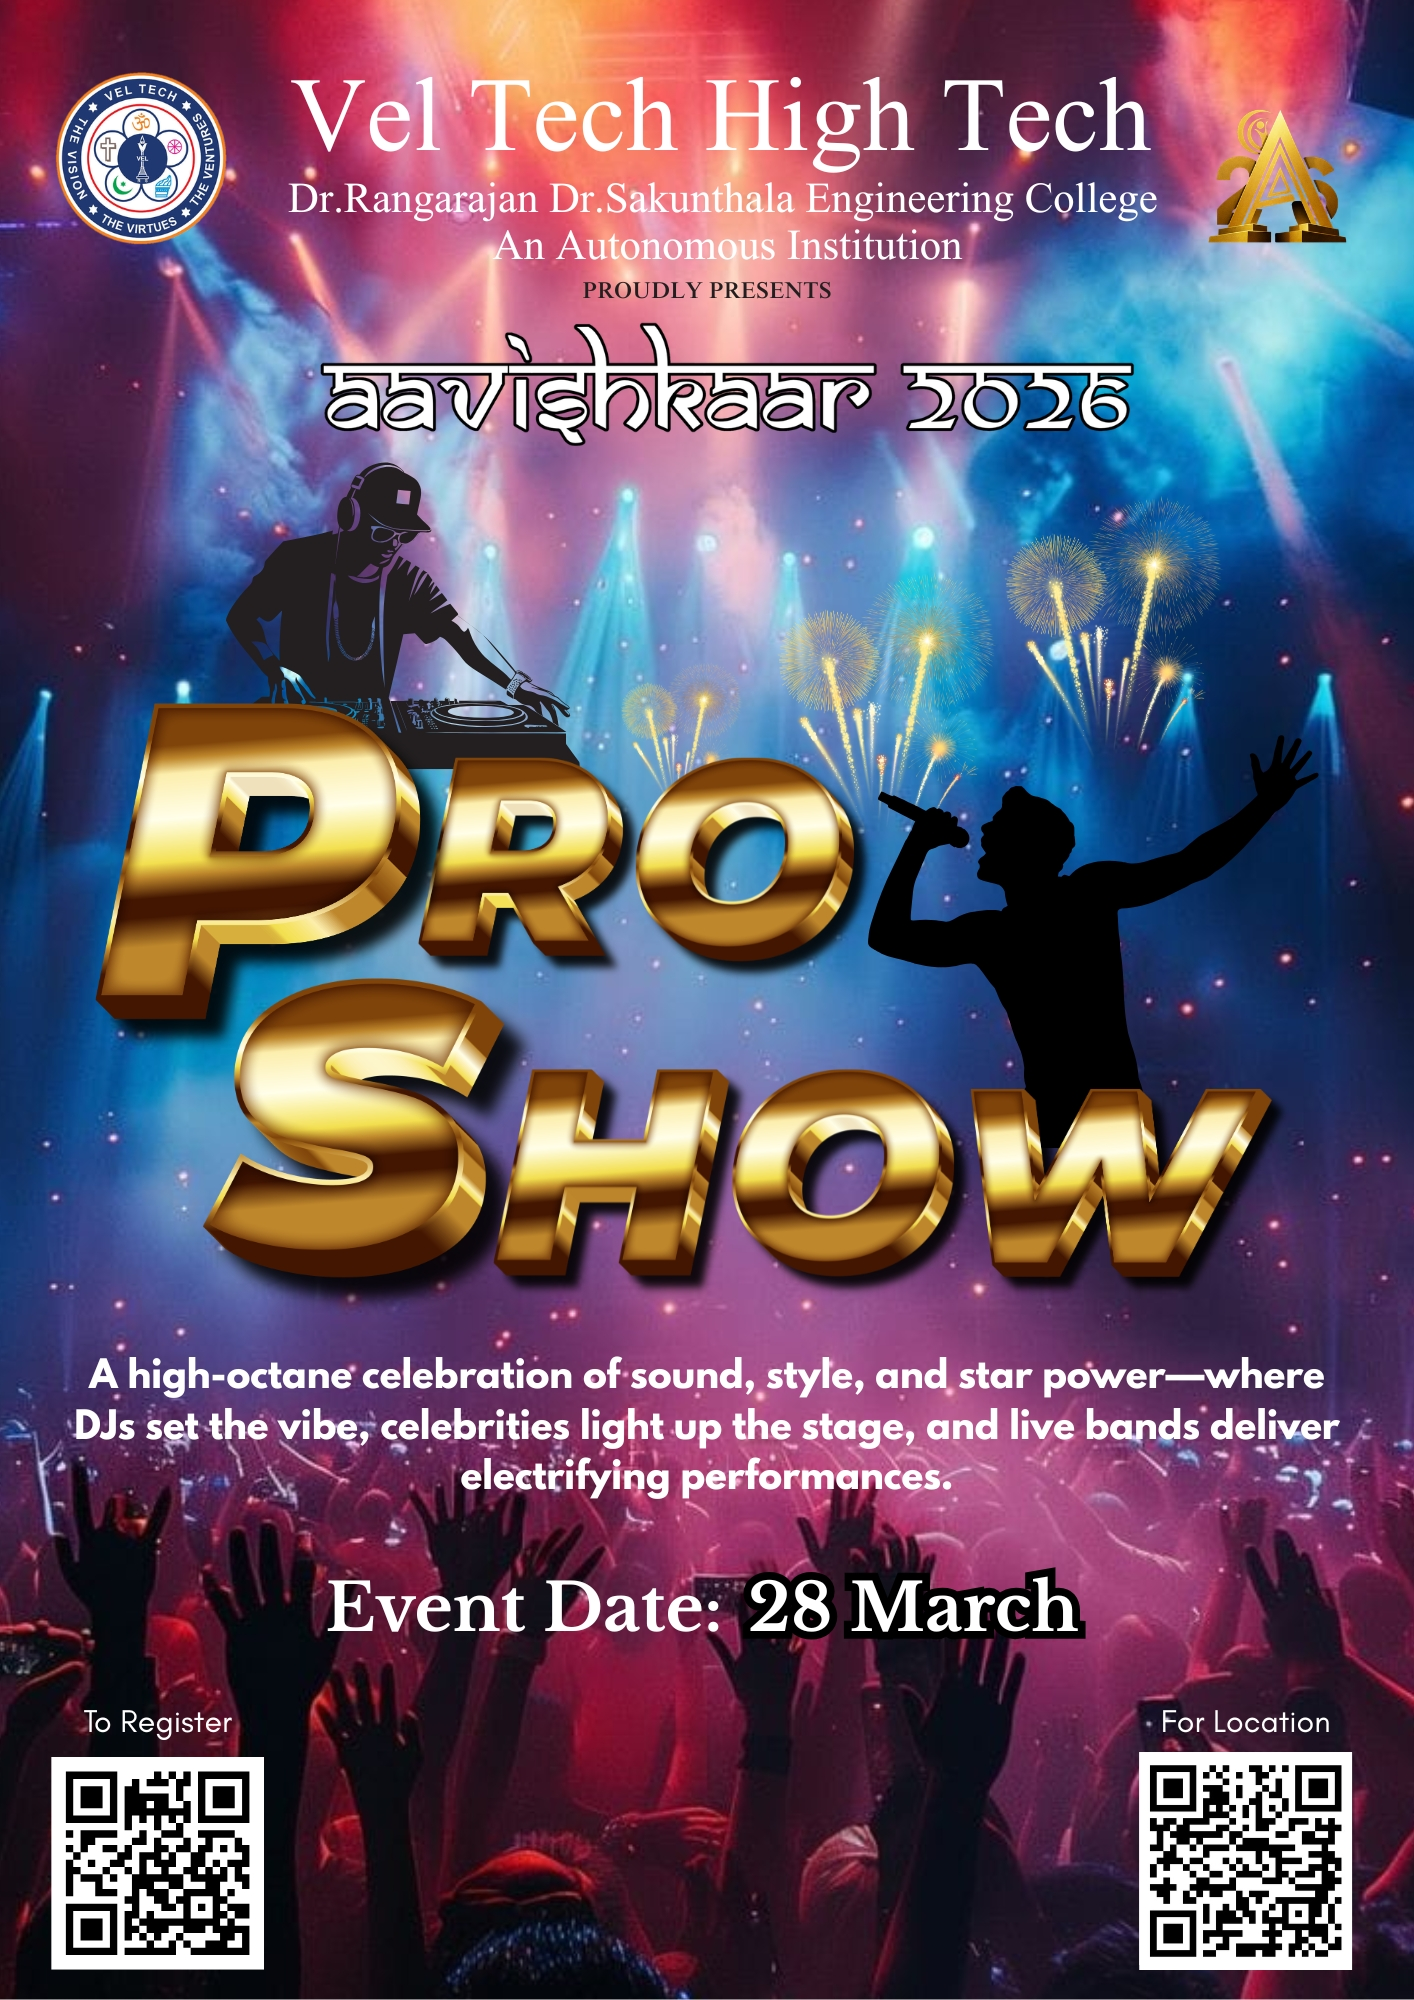
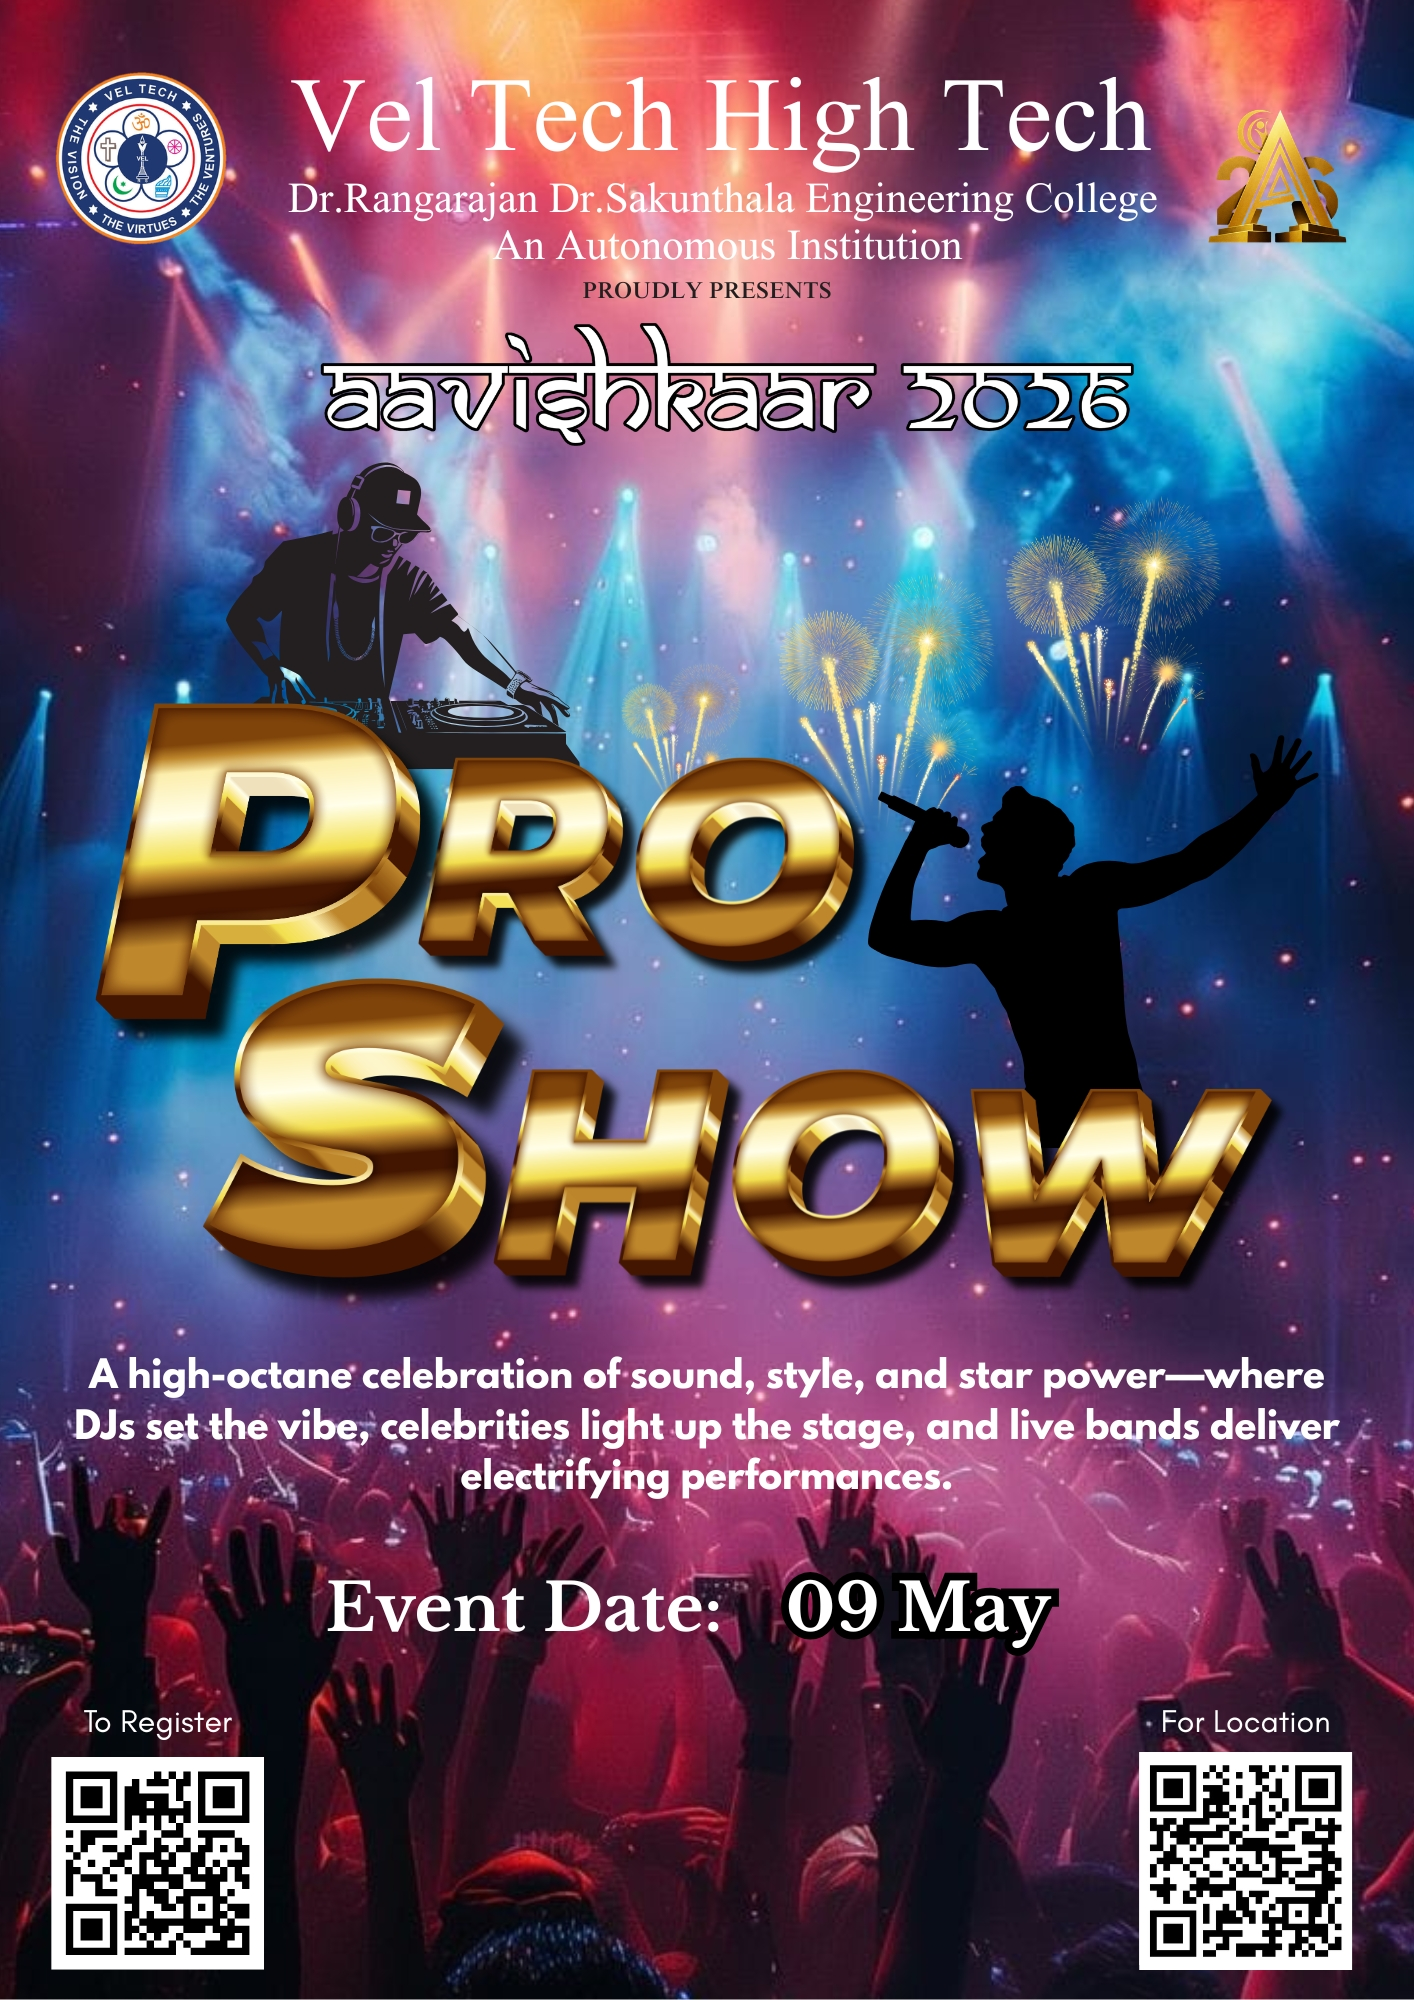
remove firebase config

Changed region(s): [[0.529, 0.775, 0.7779, 0.837]]

diff --git a/src/pages/Concert.tsx b/src/pages/Concert.tsx
@@ -12,11 +12,6 @@ import {
 import { ScrollAnimation } from "@/components/ui/ScrollAnimation";
 import { CountdownTimer } from "@/components/home/CountdownTimer";
 import proShowPoster from "@/assets/pro-show.jpeg";
-import guest1 from "@/assets/guest1.jpg";
-import guest2 from "@/assets/guest2.jpg";
-import guest3 from "@/assets/guest3.jpg";
-import guest4 from "@/assets/guest4.jpg";
-import guest5 from "@/assets/guest5.jpg";
 
 const Concert = () => {
   return (
@@ -94,7 +89,7 @@ const Concert = () => {
                 <Sparkles className="text-secondary animate-pulse" size={28} />
               </div>
             </ScrollAnimation>
-            
+            q
               {/* COUNTDOWN */}
               <ScrollAnimation delay={500}>
                 <div className="mb-8">

diff --git a/src/pages/AboutEvent.tsx b/src/pages/AboutEvent.tsx
@@ -28,10 +28,10 @@ const AboutEvent = () => {
                 <h1 className="font-samarkan text-6xl sm:text-8xl md:text-8xl neon-yellow mb-4 sm:mb-6">
                   aavishkaar 2026
                 </h1>
-
                 <p className="text-sm sm:text-lg text-foreground/80 italic">
                   "Unleashed Vibes; Unmatched Energy"
                 </p>
+
                 <p className="text-secondary uppercase tracking-widest text-xl sm:text-xl  mt-5">
                   May 8ᵗʰ & 9ᵗʰ – 2026 
                 </p>
